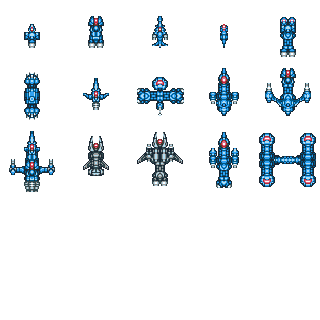
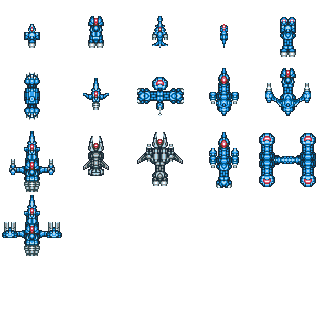
#12 Added BattleCruiser and large starbase for humans.
Fixed also missing ship setImageIndex from ship hull factory.

Changed region(s): [[0.0, 0.5938, 0.1875, 0.8125]]

diff --git a/src/org/openRealmOfStars/player/ship/ShipHullFactory.java b/src/org/openRealmOfStars/player/ship/ShipHullFactory.java
@@ -141,21 +141,25 @@ public class ShipHullFactory {
     if (index == 13) {
       tmp = new ShipHull(index, "Battleship Mk1", 10, 2, ShipHullType.NORMAL, 
           ShipSize.HUGE,20,20,race);
+      tmp.setImageIndex(ShipImage.BATTLESHIP);
       return tmp;
     }
     if (index == 14) {
       tmp = new ShipHull(index, "Privateer Mk1", 6, 2, ShipHullType.PRIVATEER,
           ShipSize.MEDIUM,8,8,race);
+      tmp.setImageIndex(ShipImage.PRIVATEER);
       return tmp;
     }
     if (index == 15) {
       tmp = new ShipHull(index, "Large freighter", 10, 2, ShipHullType.FREIGHTER,
           ShipSize.HUGE,12,20,race);
+      tmp.setImageIndex(ShipImage.LARGE_FREIGHTER);
       return tmp;
     }
     if (index == 16) {
       tmp = new ShipHull(index, "Large starbase", 8, 3, ShipHullType.STARBASE,
           ShipSize.LARGE,15,15,race);
+      tmp.setImageIndex(ShipImage.LARGE_STARBASE);
       return tmp;
     }
     if (index == 17) {
@@ -167,11 +171,13 @@ public class ShipHullFactory {
     if (index == 18) {
       tmp = new ShipHull(index, "Battle cruiser Mk1", 9, 2, ShipHullType.NORMAL,
           ShipSize.LARGE,12,12,race);
+      tmp.setImageIndex(ShipImage.BATTLECRUISER);
       return tmp;
     }
     if (index == 19) {
       tmp = new ShipHull(index, "Privateer Mk2", 8, 2, ShipHullType.PRIVATEER,
           ShipSize.LARGE,12,14,race);
+      tmp.setImageIndex(ShipImage.PRIVATEER_LARGE);
       return tmp;
     }
     if (index == 20) {
@@ -205,16 +211,19 @@ public class ShipHullFactory {
     if (index == 25) {
       tmp = new ShipHull(index, "Battleship Mk2", 10, 3, ShipHullType.NORMAL,
           ShipSize.HUGE,20,25,race);
+      tmp.setImageIndex(ShipImage.BATTLESHIP);
       return tmp;
     }
     if (index == 26) {
       tmp = new ShipHull(index, "Privateer Mk3", 8, 3, ShipHullType.PRIVATEER,
           ShipSize.LARGE,15,18,race);
+      tmp.setImageIndex(ShipImage.PRIVATEER_LARGE);
       return tmp;
     }
     if (index == 27) {
       tmp = new ShipHull(index, "Battle cruiser Mk2", 9, 3, ShipHullType.NORMAL,
           ShipSize.LARGE,18,18,race);
+      tmp.setImageIndex(ShipImage.BATTLECRUISER);
       return tmp;
     }
     if (index == 28) {

diff --git a/src/org/openRealmOfStars/player/ship/ShipImage.java b/src/org/openRealmOfStars/player/ship/ShipImage.java
@@ -122,6 +122,8 @@ public class ShipImage {
     smallShipImages[LARGE_FREIGHTER] = scaleTo32x32(shipImages[LARGE_FREIGHTER]);
     shipImages[LARGE_STARBASE] = image64x64(image,4,2);
     smallShipImages[LARGE_STARBASE] = scaleTo32x32(shipImages[LARGE_STARBASE]);
+    shipImages[BATTLECRUISER] = image64x64(image,0,3);
+    smallShipImages[BATTLECRUISER] = scaleTo32x32(shipImages[BATTLECRUISER]);
   }
   
   private BufferedImage image64x64(BufferedImage image, int x, int y) throws
